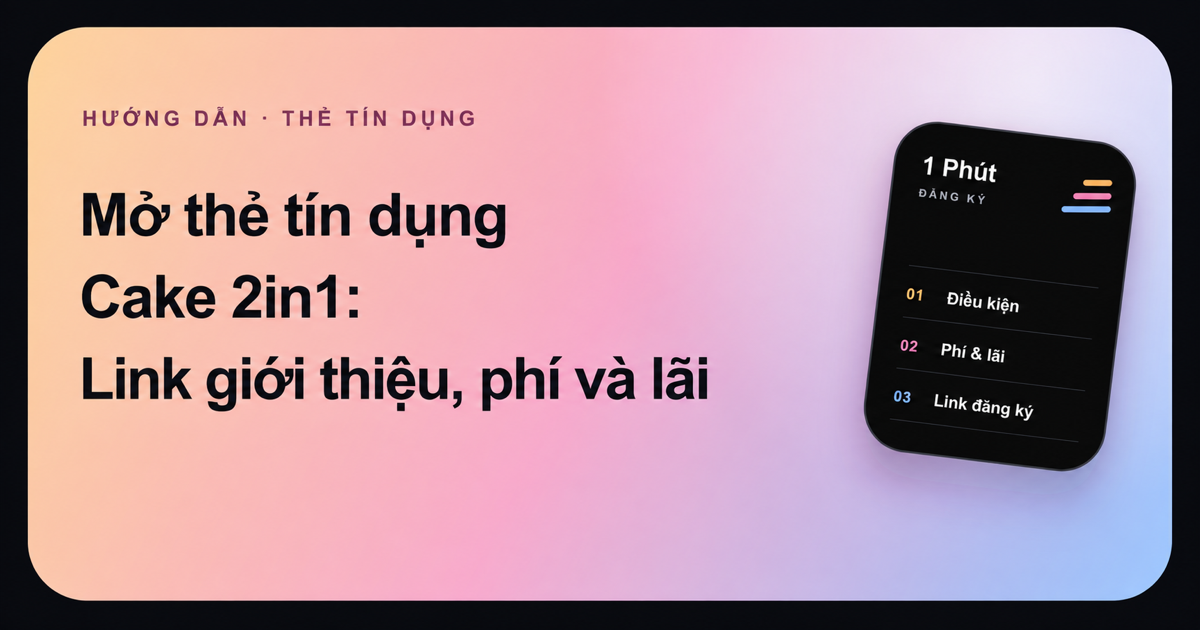
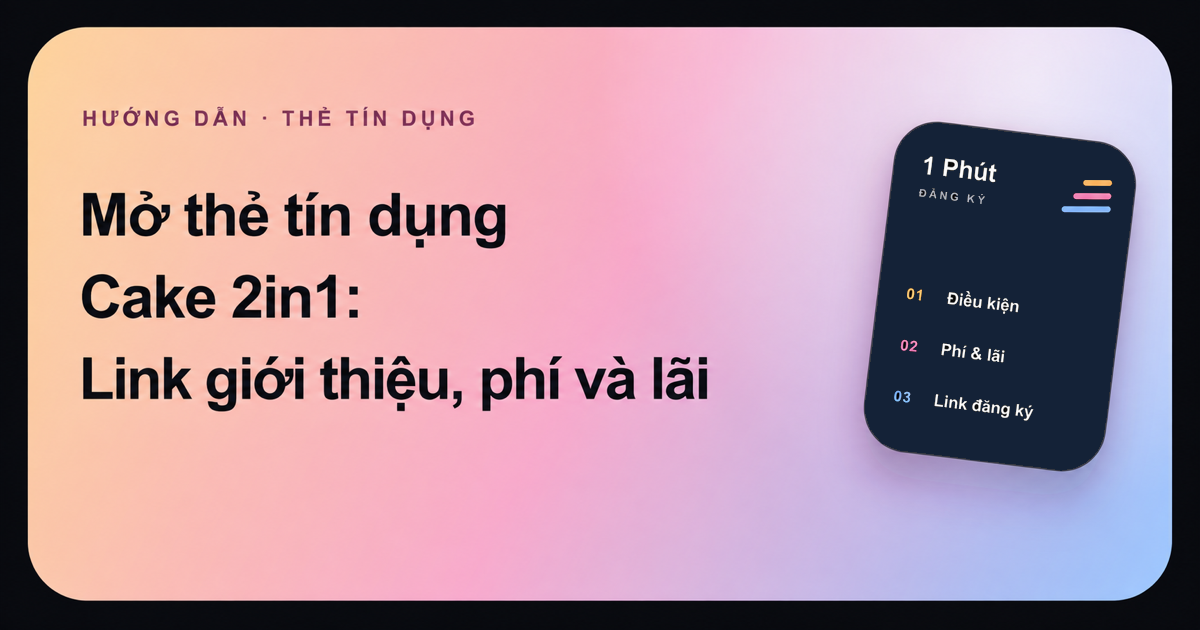
feat: sync brand visuals with navy mark

Changed region(s): [[0.7092, 0.181, 0.9558, 0.754]]

diff --git a/src/styles/home.css b/src/styles/home.css
@@ -109,11 +109,11 @@
     width: 315px;
     min-height: 380px;
     padding: 1.5rem;
-    background: #0b0c10;
+    background: #142237;
     color: #f8f5ef;
     border: 1px solid rgba(255, 255, 255, 0.14);
     border-radius: 2.25rem;
-    box-shadow: 0 35px 80px rgba(11, 12, 16, 0.28);
+    box-shadow: 0 35px 80px rgba(20, 34, 55, 0.28);
     transform: rotate(5deg);
   }
 
